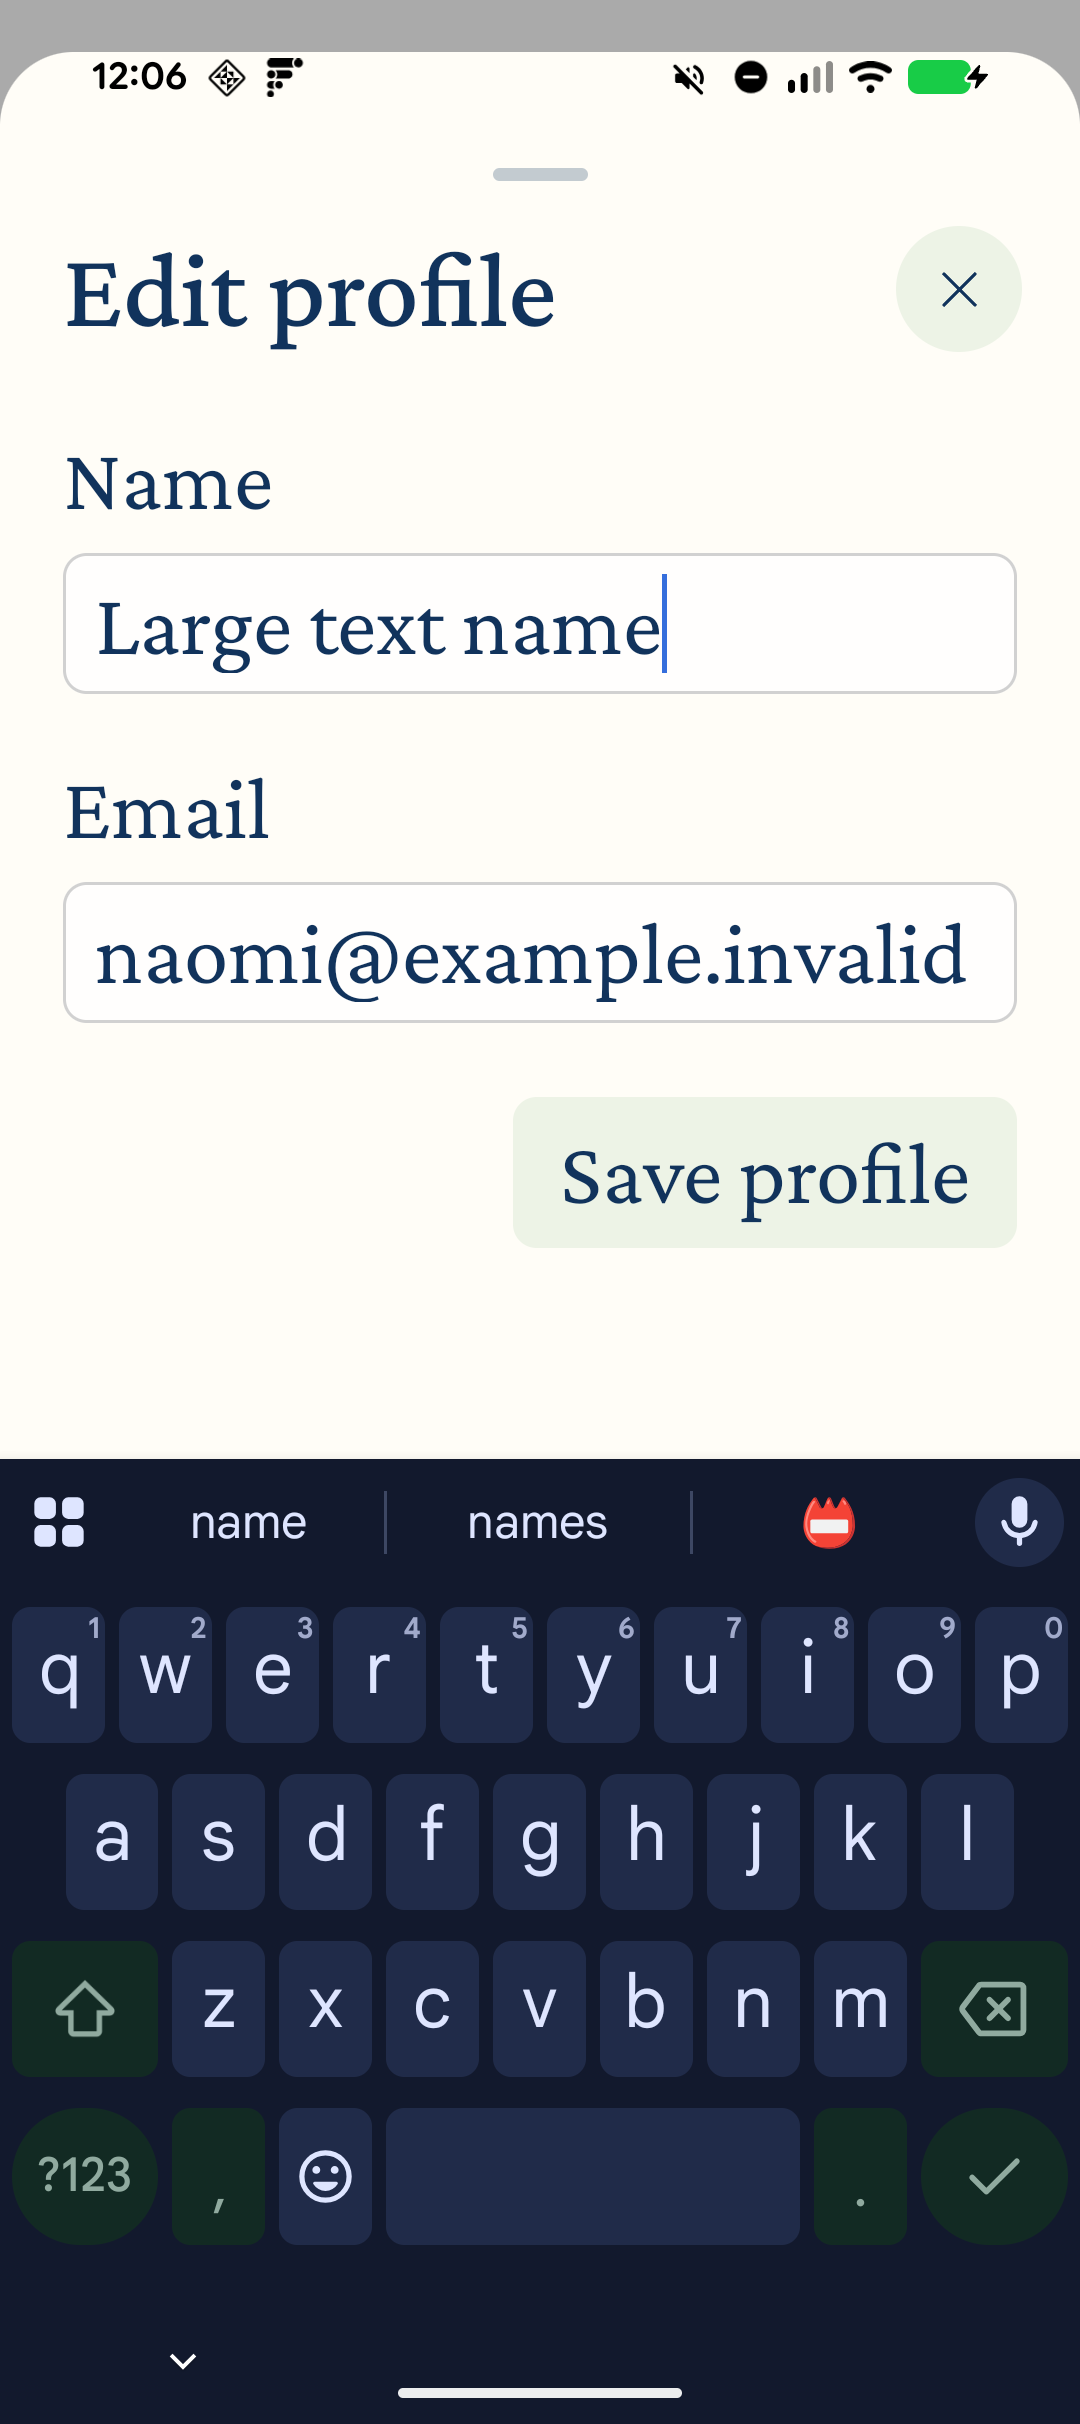
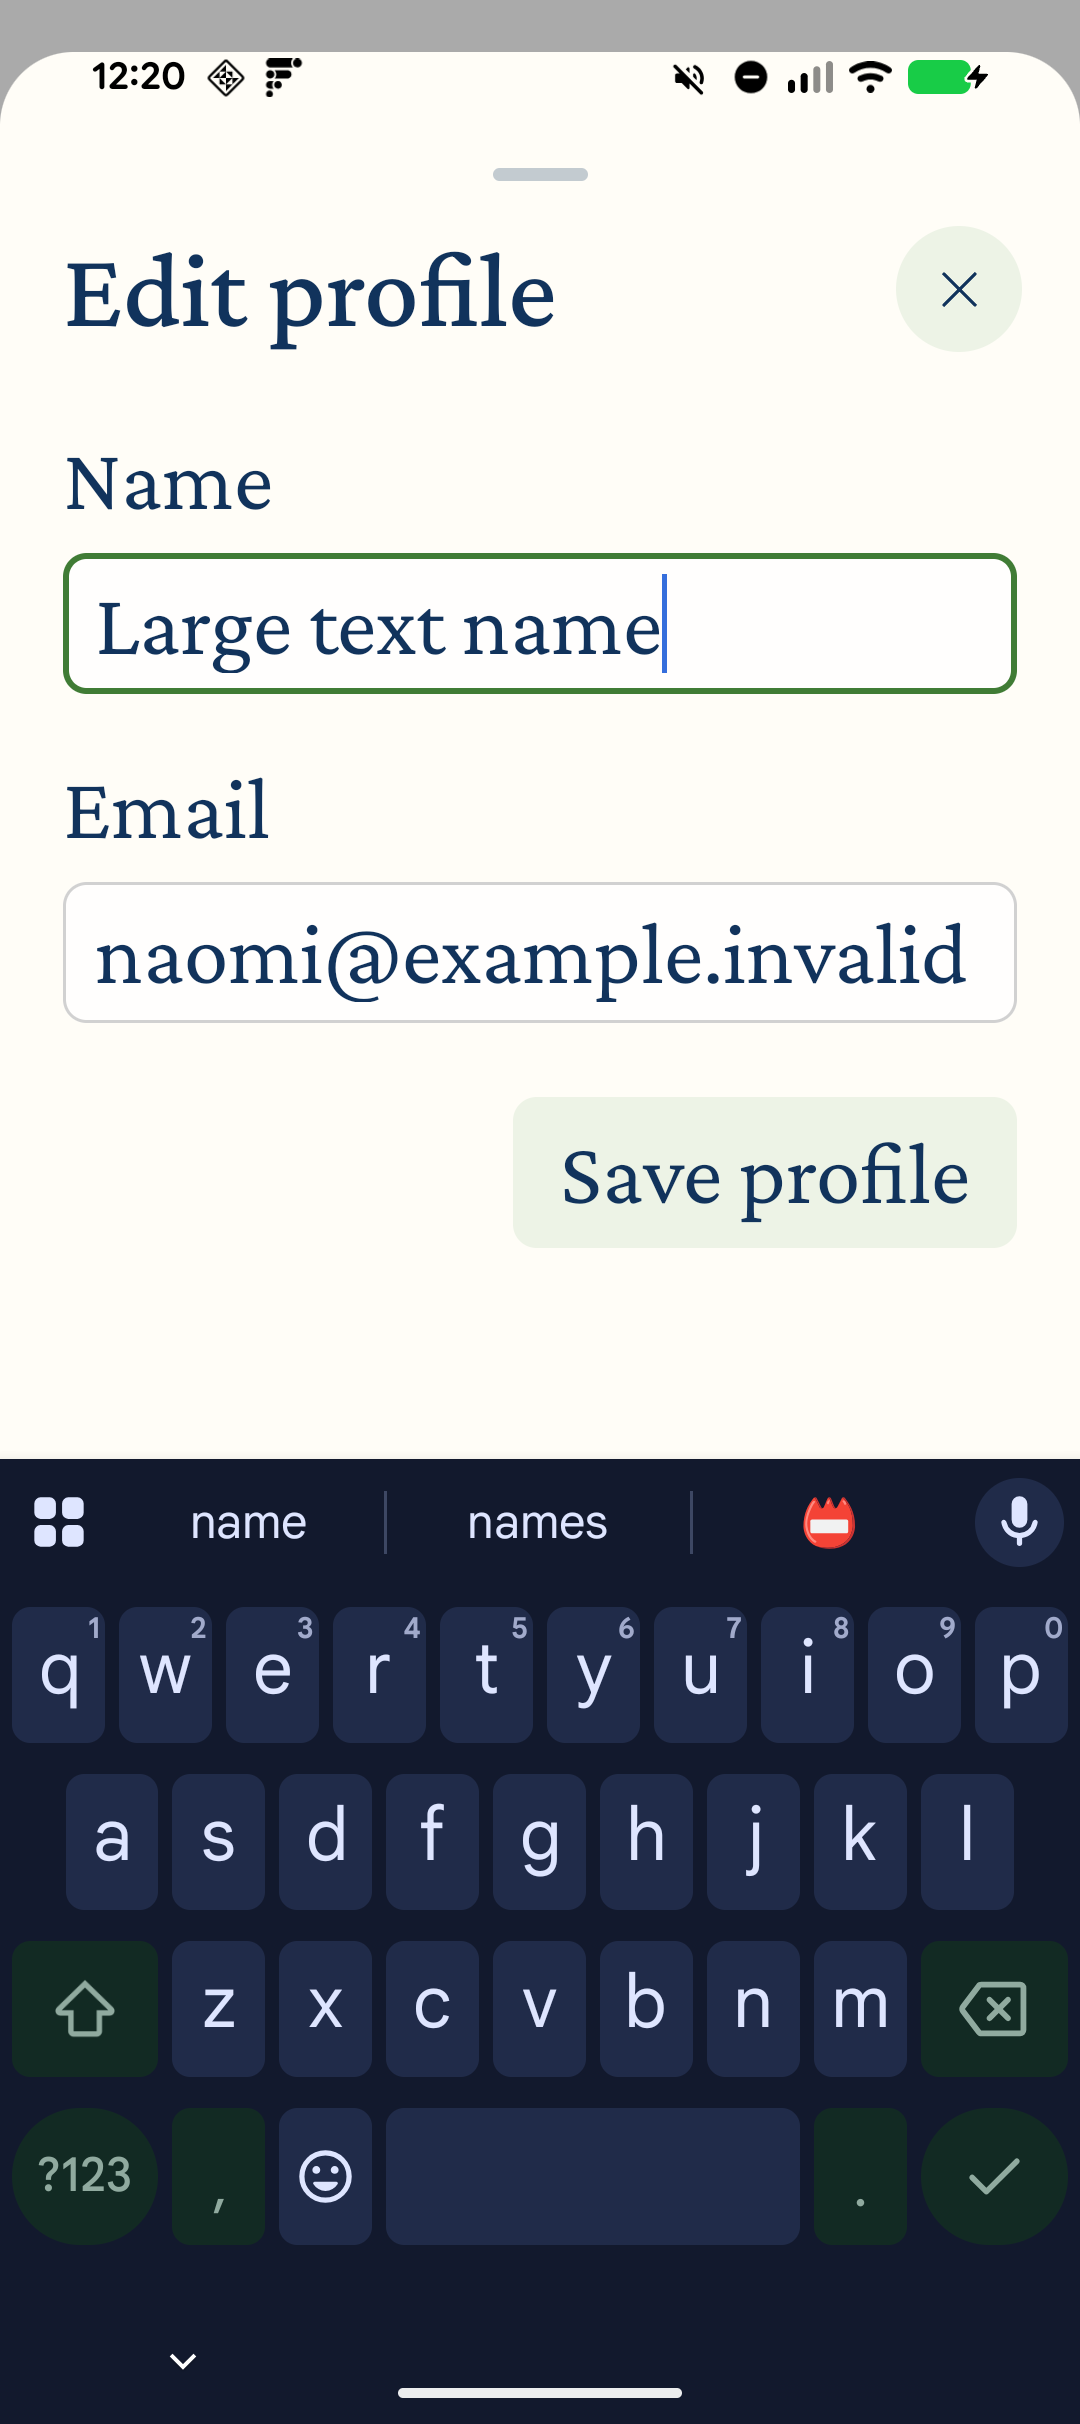
Preserve Settings accessibility and connection refresh

Changed region(s): [[0.9167, 0.2166, 0.9472, 0.2785], [0.0611, 0.2166, 0.0917, 0.2475]]

diff --git a/app/src/androidTest/java/com/cdcg/convolab/settings/SettingsUiTest.kt b/app/src/androidTest/java/com/cdcg/convolab/settings/SettingsUiTest.kt
@@ -5,12 +5,14 @@ import android.os.Build
 import android.view.View
 import android.view.inspector.WindowInspector
 import java.io.File
+import java.util.concurrent.atomic.AtomicInteger
 import androidx.activity.ComponentActivity
 import androidx.compose.runtime.CompositionLocalProvider
 import androidx.compose.ui.platform.LocalDensity
 import androidx.compose.ui.unit.Density
 import androidx.compose.ui.text.TextLayoutResult
 import androidx.compose.ui.semantics.SemanticsActions
+import androidx.compose.ui.semantics.SemanticsProperties
 import androidx.compose.runtime.collectAsState
 import androidx.compose.runtime.getValue
 import androidx.compose.ui.test.*
@@ -53,6 +55,8 @@ class SettingsUiTest {
         // Successful form replacement dismisses its input; Back can navigate away after that.
         device.waitForIdle()
         compose.onNodeWithText("Change Password").performScrollTo().performClick()
+        compose.onNodeWithTag("settings-save-password").assertIsNotEnabled().assert(SemanticsMatcher.expectValue(
+            SemanticsProperties.StateDescription, "Enter your current password and matching new passwords with at least 8 characters."))
         screenshot(TestOutput.file("settings-password.png"))
         compose.onNodeWithTag("auth-Current password").performClick().performTextInput("fixture-current")
         compose.onNodeWithTag("auth-New password").performScrollTo().performClick().performTextInput("fixture-new-password")
@@ -69,7 +73,13 @@ class SettingsUiTest {
         launchSettings()
         compose.onNodeWithText("Connections").performClick()
         screenshot(TestOutput.file("settings-connections.png"))
-        compose.onNodeWithText("WaniKani").performClick()
+        val disclosure = compose.onNodeWithText("WaniKani")
+        disclosure.assert(SemanticsMatcher.expectValue(SemanticsProperties.StateDescription, "Collapsed")).performClick()
+        disclosure.assert(SemanticsMatcher.expectValue(SemanticsProperties.StateDescription, "Expanded"))
+        compose.waitUntil(5_000) { api.knownReads.get() >= 2 && !controller.state.value.busy }
+        val reads = api.knownReads.get()
+        disclosure.performClick().performClick()
+        compose.waitUntil(5_000) { api.knownReads.get() > reads && !controller.state.value.busy }
         screenshot(TestOutput.file("settings-wanikani-empty.png"))
         compose.onNodeWithTag("auth-WaniKani API token").performScrollTo().performClick().performTextInput("fixture-provider-token")
         screenshot(TestOutput.file("settings-wanikani-focus.png"))
@@ -157,9 +167,10 @@ class SettingsUiTest {
 private class UiSettingsGateway(var account: Account) : SettingsGateway {
     private var snapshot = KnownKanjiSnapshot()
     var passwordChanged = false
+    val knownReads = AtomicInteger()
     override suspend fun profile(change: ProfileChange): Account { account = account.copy(name = change.name, email = change.email); return account }
     override suspend fun password(change: PasswordChange) { passwordChanged = true }
-    override suspend fun knownKanji() = snapshot
+    override suspend fun knownKanji(): KnownKanjiSnapshot { knownReads.incrementAndGet(); return snapshot }
     override suspend fun connect(token: String): KnownKanjiSnapshot { snapshot = KnownKanjiSnapshot(1, setOf('映'.code, '画'.code), true, "2026-11-22T16:30:00Z"); return snapshot }
     override suspend fun sync() = Unit
     override suspend fun disconnect() { snapshot = snapshot.copy(connected = false) }

diff --git a/app/src/main/java/com/cdcg/convolab/settings/SettingsFields.kt b/app/src/main/java/com/cdcg/convolab/settings/SettingsFields.kt
@@ -3,6 +3,8 @@ package com.cdcg.convolab.settings
 import androidx.compose.foundation.background
 import androidx.compose.foundation.border
 import androidx.compose.foundation.layout.*
+import androidx.compose.foundation.interaction.MutableInteractionSource
+import androidx.compose.foundation.interaction.collectIsFocusedAsState
 import androidx.compose.foundation.shape.RoundedCornerShape
 import androidx.compose.foundation.text.BasicSecureTextField
 import androidx.compose.foundation.text.BasicTextField
@@ -24,22 +26,26 @@ import com.cdcg.convolab.ui.JournalStyle
 
 @Composable
 internal fun SettingsField(input: AuthInput, value: String, onEdit: (String) -> Unit, enabled: Boolean) {
+    val interaction = remember { MutableInteractionSource() }
+    val focused by interaction.collectIsFocusedAsState()
     Column(verticalArrangement = Arrangement.spacedBy(7.dp)) {
         Text(input.label)
-        BasicTextField(value, onEdit, Modifier.settingsField(input.label), enabled = enabled, singleLine = true,
+        BasicTextField(value, onEdit, Modifier.settingsField(input.label), enabled = enabled, singleLine = true, interactionSource = interaction,
             textStyle = JournalStyle.Body.copy(color = JournalBrand.Ink), cursorBrush = SolidColor(JournalBrand.Blue),
             keyboardOptions = KeyboardOptions(autoCorrectEnabled = false, keyboardType = input.keyboard),
-            decorationBox = { FieldSurface { it() } })
+            decorationBox = { FieldSurface(focused) { it() } })
     }
 }
 
 @Composable
 internal fun SettingsPasswordField(label: String, state: TextFieldState, enabled: Boolean, placeholder: Boolean = false) {
+    val interaction = remember { MutableInteractionSource() }
+    val focused by interaction.collectIsFocusedAsState()
     Column(verticalArrangement = Arrangement.spacedBy(7.dp)) {
         if (!placeholder) Text(label)
-        BasicSecureTextField(state, Modifier.settingsField(label), enabled = enabled,
+        BasicSecureTextField(state, Modifier.settingsField(label), enabled = enabled, interactionSource = interaction,
             textStyle = JournalStyle.Body.copy(color = JournalBrand.Ink), cursorBrush = SolidColor(JournalBrand.Blue),
-            decorator = { inner -> FieldSurface {
+            decorator = { inner -> FieldSurface(focused) {
                 if (placeholder && state.text.isEmpty()) Text(label, color = JournalBrand.Ink.copy(alpha = .5f))
                 inner()
             } })
@@ -49,8 +55,8 @@ internal fun SettingsPasswordField(label: String, state: TextFieldState, enabled
 private fun Modifier.settingsField(label: String) = fillMaxWidth().testTag("auth-$label").semantics { contentDescription = label }
 
 @Composable
-private fun FieldSurface(content: @Composable () -> Unit) {
+private fun FieldSurface(focused: Boolean, content: @Composable () -> Unit) {
     val shape = RoundedCornerShape(9.dp)
-    Box(Modifier.fillMaxWidth().background(Color.White.copy(alpha = .7f), shape).border(1.dp, Color(0xFFD1D1D1), shape)
+    Box(Modifier.fillMaxWidth().background(Color.White.copy(alpha = .7f), shape).border(if (focused) 2.dp else 1.dp, if (focused) JournalStyle.Green else Color(0xFFD1D1D1), shape)
         .heightIn(min = 44.dp).padding(horizontal = 12.dp, vertical = 8.dp), contentAlignment = Alignment.CenterStart) { content() }
 }

diff --git a/app/src/main/java/com/cdcg/convolab/settings/SettingsScreen.kt b/app/src/main/java/com/cdcg/convolab/settings/SettingsScreen.kt
@@ -39,6 +39,7 @@ fun SettingsScreen(state: SettingsState, controller: SettingsController, actions
         containerColor = JournalStyle.Paper, contentColor = JournalBrand.Ink, dragHandle = {
             Box(Modifier.padding(top = 6.dp, bottom = 10.dp).size(width = 36.dp, height = 5.dp).background(JournalBrand.Ink.copy(alpha = .25f), CircleShape))
         }) {
+        // Modal sheets create another window; preserve the caller's inherited text scale.
         CompositionLocalProvider(LocalDensity provides density) {
         ProvideTextStyle(JournalStyle.Body) {
             Column(Modifier.fillMaxHeight(.96f).imePadding().padding(horizontal = 24.dp)) {
@@ -87,7 +88,8 @@ private fun SettingsOverview(state: SettingsState, controller: SettingsControlle
     }
     SettingsChapter("Connections", JournalSymbol.Link, expanded, { expanded = it }) {
         var wanikani by rememberSaveable { mutableStateOf(false) }
-        Row(Modifier.fillMaxWidth().clickable { wanikani = !wanikani }.heightIn(min = 44.dp), verticalAlignment = Alignment.CenterVertically) {
+        Row(Modifier.fillMaxWidth().clickable(role = Role.Button) { wanikani = !wanikani; if (wanikani) controller.reload() }
+            .semantics { stateDescription = if (wanikani) "Expanded" else "Collapsed" }.heightIn(min = 44.dp), verticalAlignment = Alignment.CenterVertically) {
             Text("WaniKani", Modifier.weight(1f))
             JournalIcon(if (wanikani) JournalSymbol.Down else JournalSymbol.Chevron, Modifier.size(13.dp), JournalBrand.Ink.copy(alpha = .5f))
         }

diff --git a/app/src/main/java/com/cdcg/convolab/settings/AccountEditors.kt b/app/src/main/java/com/cdcg/convolab/settings/AccountEditors.kt
@@ -10,6 +10,8 @@ import androidx.compose.ui.Alignment
 import com.cdcg.convolab.ui.JournalBrand
 import com.cdcg.convolab.ui.LocalJournalButtonInk
 import androidx.compose.ui.platform.testTag
+import androidx.compose.ui.semantics.semantics
+import androidx.compose.ui.semantics.stateDescription
 import androidx.compose.ui.text.input.KeyboardType
 import androidx.compose.ui.unit.dp
 import com.cdcg.convolab.ui.JournalButton
@@ -36,7 +38,9 @@ fun PasswordEditor(state: SettingsState, controller: SettingsController, done: (
         SettingsPasswordField("New password", form.password, !state.busy)
         SettingsPasswordField("Confirm password", form.confirmation, !state.busy)
         SettingsSubmitButton("Update password", onClick = { controller.updatePassword(form.change()) { form.clear(); done() } }, enabled = !state.busy && form.valid,
-            modifier = Modifier.align(Alignment.End).padding(top = 6.dp).testTag("settings-save-password"))
+            modifier = Modifier.align(Alignment.End).padding(top = 6.dp).testTag("settings-save-password").semantics {
+                if (!form.valid) stateDescription = "Enter your current password and matching new passwords with at least 8 characters."
+            })
     }
 }
 

diff --git a/docs/android-port/popover-settings-parity.md b/docs/android-port/popover-settings-parity.md
@@ -29,9 +29,9 @@ Noto Serif JP is the Android counterpart to iOS's Hiragino Mincho. Glyph outline
 Changes:
 
 - Use the actual medium-weight Crimson Pro variation for headings; match smaller row icons, account action spacing, and destructive-action color.
-- Use 44-dp minimum rounded fields with the iOS padding and border. Fields grow with accessibility text. Retain secure password input, validation, and field-state clearing.
+- Use 44-dp minimum rounded fields with the iOS padding and border. Fields grow with accessibility text. Retain secure password input, validation, visible focus outlines, and field-state clearing. The disabled password action announces its requirements.
 - Remove the always-visible password hint to match the reference form; validity still controls submission.
-- Keep WaniKani inline, with right/down disclosure chevrons, label/value connection rows, a localized last-sync date, and a placeholder token field. Show Refresh connection when an error needs recovery.
+- Keep WaniKani inline, with right/down disclosure chevrons, label/value connection rows, a localized last-sync date, and a placeholder token field. Reload when the disclosure opens, including while disconnected; show Refresh connection when an error needs recovery. Announce the disclosure state to accessibility services.
 
 Native sheet presentation, status/navigation bars, keyboard chrome, and different fixture account names remain platform/content differences. Android keeps its existing success/error messages.
 
